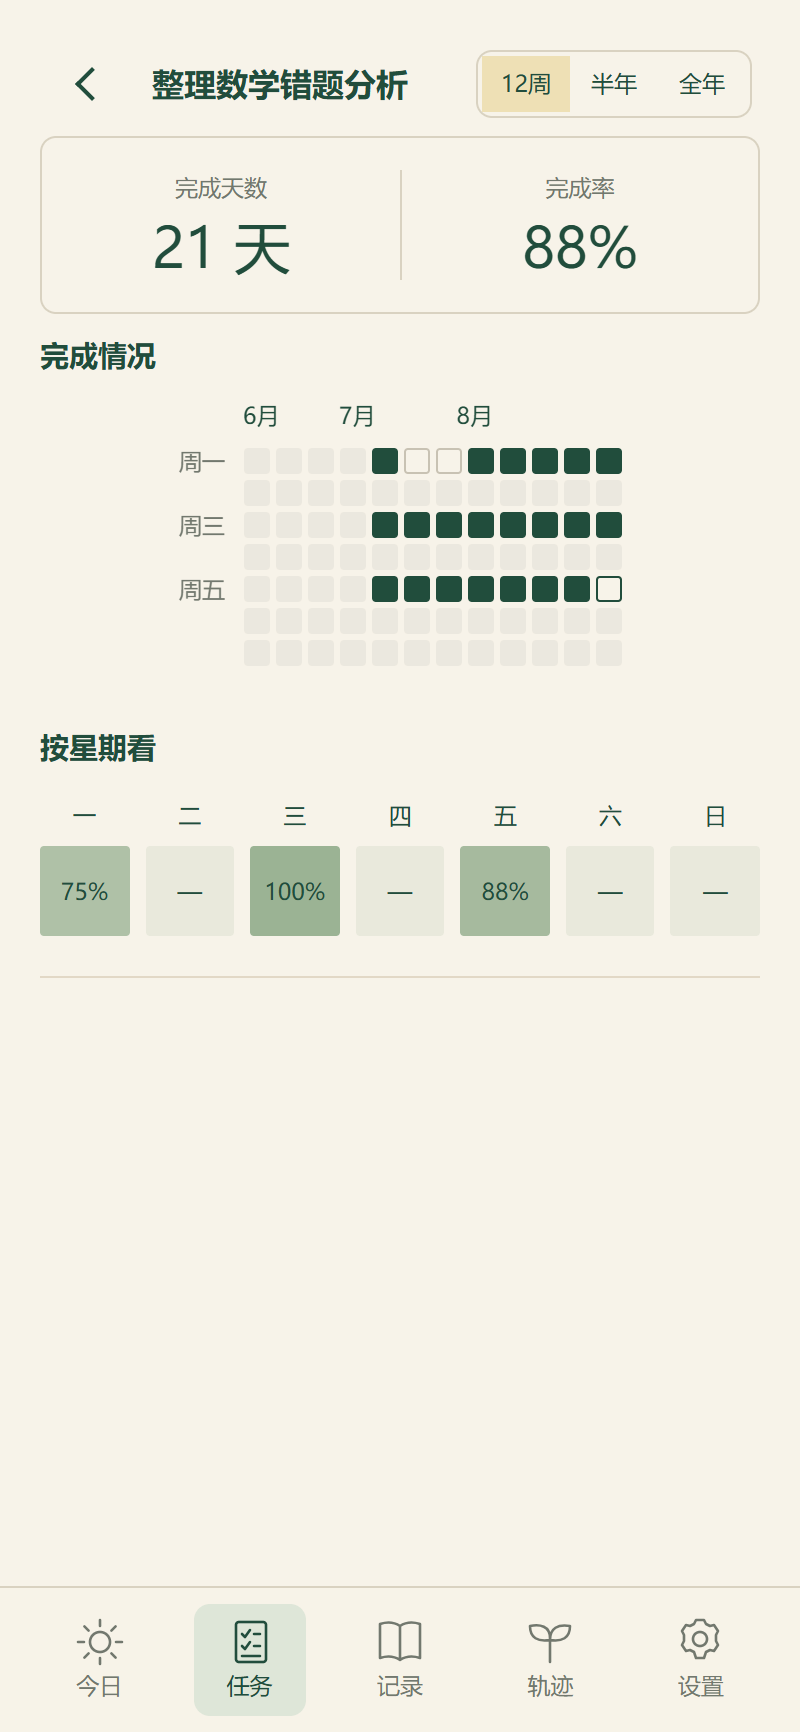
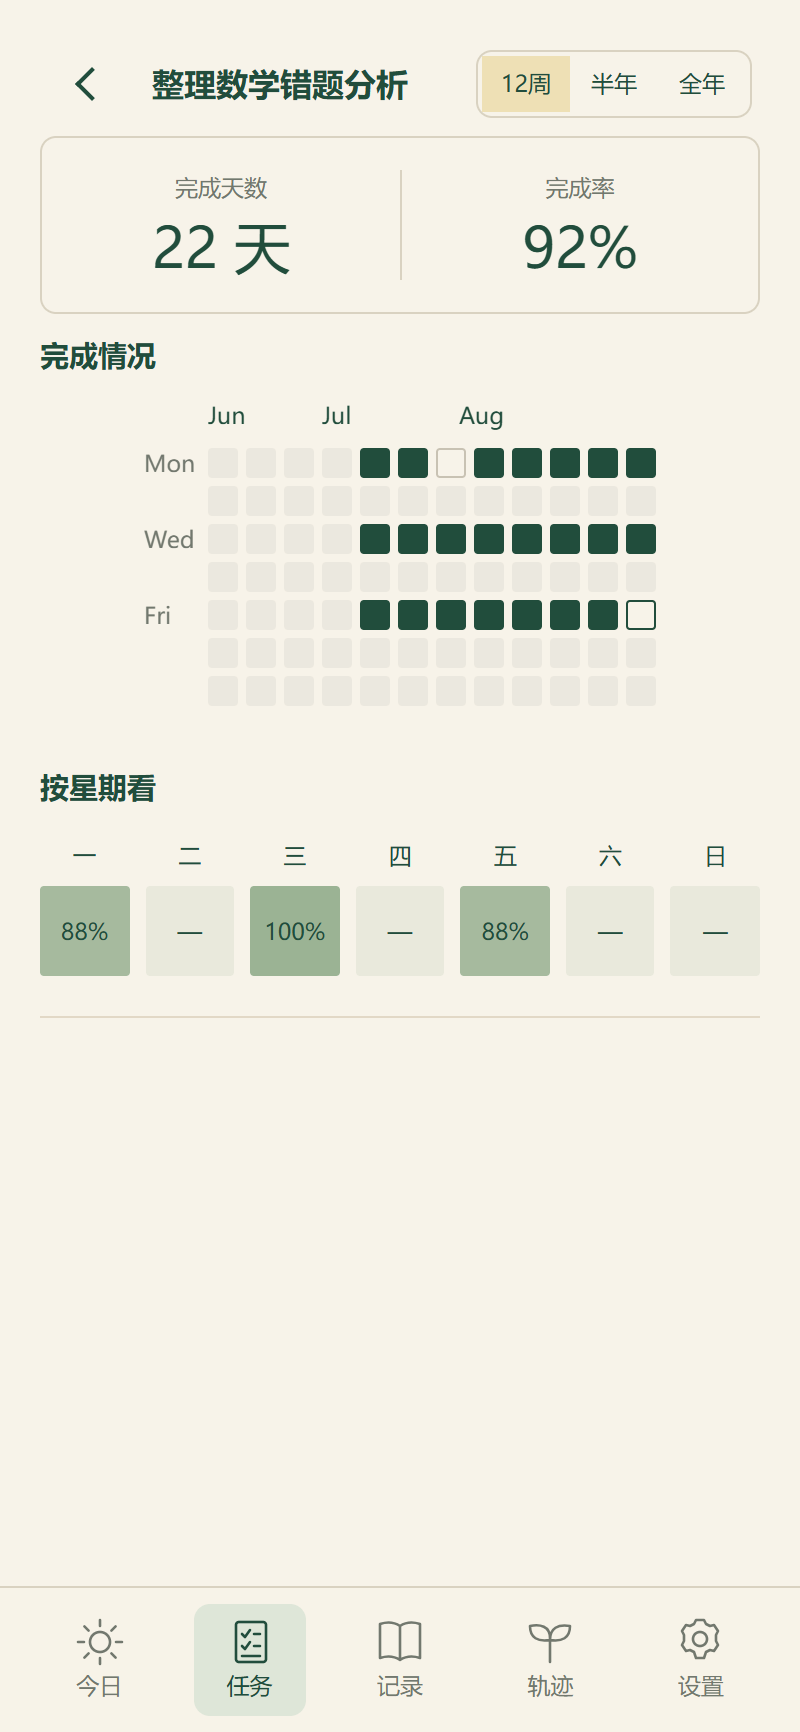
refactor(ui): enlarge heatmap and use English axes

diff --git a/src/app.ts b/src/app.ts
@@ -6082,14 +6082,14 @@ function analysisHeatmap(
     const date = parseLocalDate(shiftDate(period.start, week * 7));
     const month = date.getMonth();
     if (month === previousMonth) continue;
-    const label = node('span', '', `${month + 1}月`);
+    const label = node('span', '', ['Jan', 'Feb', 'Mar', 'Apr', 'May', 'Jun', 'Jul', 'Aug', 'Sep', 'Oct', 'Nov', 'Dec'][month]);
     label.style.gridColumnStart = String(week + 1);
     months.append(label);
     previousMonth = month;
   }
   const body = node('div', 'analysis-heat-body');
   const weekdayLabels = node('div', 'analysis-weekday-labels');
-  ['周一', '', '周三', '', '周五', '', ''].forEach((label) => weekdayLabels.append(node('span', '', label)));
+  ['Mon', '', 'Wed', '', 'Fri', '', ''].forEach((label) => weekdayLabels.append(node('span', '', label)));
   const cells = node('div', 'analysis-heat-cells');
   for (let offset = 0; offset < weeks * 7; offset += 1) {
     const date = shiftDate(period.start, offset);

diff --git a/src/design-system.css b/src/design-system.css
@@ -74,8 +74,8 @@
   --ui-action-gap: var(--ui-space-3);
   --ui-repeat-gap: 16px;
   --ui-review-input-height: 116px;
-  --ui-heat-cell: 13px;
-  --ui-heat-gap: 3px;
+  --ui-heat-cell: 15px;
+  --ui-heat-gap: 4px;
   --ui-monthly-trend-height: 14px;
   --ui-analysis-width: 100%;
   --ui-viewport-height: 100vh;

diff --git a/docs/UI_COMPONENTS.md b/docs/UI_COMPONENTS.md
@@ -69,7 +69,7 @@
 
 页面标题到内容、组件标题到内容、同级分组、字段标签到控件、字段之间、行内内容、操作按钮之间，分别由对应容器负责。不得叠加子项 margin，也不得互借令牌。
 行内内容11px，计数到操作2px，操作列55px；普通独立行间4px不作用于组内细分隔线。
-复盘输入最低116px，重复标题到星期16px，热力图13px方格/3px间隔，分析列表默认100%内容宽度。热力图以紧凑的横向时间纹理呈现：暖灰低对比底格退后，同一深绿浓度阶梯突出完成数据，格内不放勾、短横或其他符号；单习惯漏打只使用轻描边区分。页面不显示颜色图例，区块底部不使用分割线。今天使用细内框，不改变方格尺寸。400px仅为审查视口。
+复盘输入最低116px，重复标题到星期16px，热力图15px方格/4px间隔，分析列表默认100%内容宽度。热力图以横向时间纹理呈现，月份使用Jan–Dec、星期坐标使用Mon/Wed/Fri：暖灰低对比底格退后，同一深绿浓度阶梯突出完成数据，格内不放勾、短横或其他符号；单习惯漏打只使用轻描边区分。页面不显示颜色图例，区块底部不使用分割线。今天使用细内框，不改变方格尺寸。400px仅为审查视口。
 
 ## 人工调节：一个入口，同一套参数
 

diff --git a/TODO.md b/TODO.md
@@ -7,7 +7,7 @@
 ### 2026-09-07：热力图视觉重设计（已完成）
 
 - [x] 任务与单习惯分析合并为同一套暖灰底格、深绿浓度和正方形几何；删除旧黄绿混用，保持无颜色图例。
-- [x] 参考横向贡献图的密度重新收口：13px方格、3px间距、低对比底格和单一深绿浓度；格内不放勾或短横，单习惯漏打仅用轻描边，今天使用不改变尺寸的细内框。
+- [x] 参考横向贡献图的密度重新收口并按审计放大为15px方格、4px间距；坐标统一为英文月份与Mon/Wed/Fri，使用低对比底格和单一深绿浓度。格内不放勾或短横，单习惯漏打仅用轻描边，今天使用不改变尺寸的细内框。
 - [x] 严格尺寸审计、完整 `npm test` 和 47/47 浏览器业务回归通过；55场景重拍文字审计为0，任务与习惯分析截图见 `design/screenshots/20260907-heatmap-redesign/`，第二轮独立视觉复审PASS。
 
 ### 2026-09-07：组件合并最终审查（已完成）
